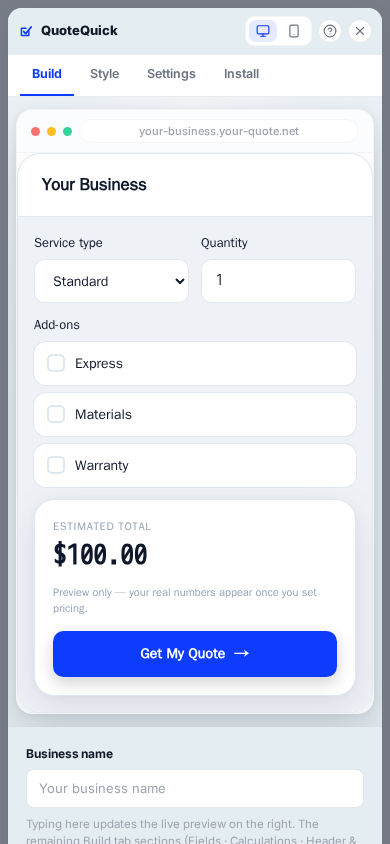
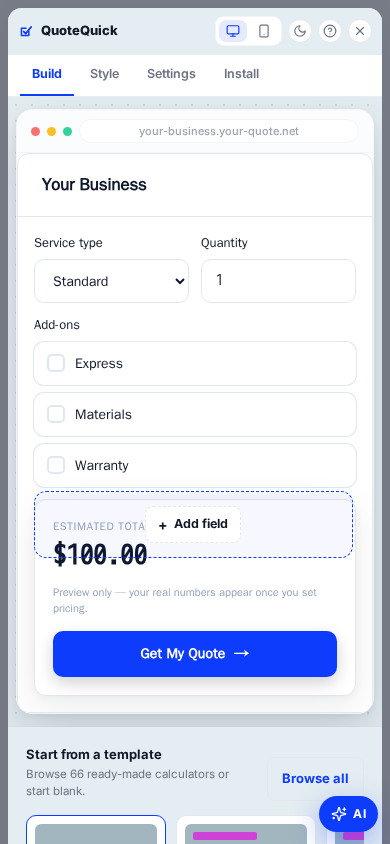
fix: post-deploy QA blockers — mobile count-up, /signup CTA, AI bubble viewport, audit timeout, brand-name unification (#357)
* fix(marketing): B1 — mobile count-up animation fires reliably on product pages

Post-deploy QA on 2026-05-20 found every product page on mobile (390×844)
left its stat tiles pinned at the Ticker's initial "0%/<0s/0+" state — the
count-up animation never fired. Root cause: the IntersectionObserver in the
shared Ticker component used `margin: "-40px"`, which shrinks the effective
viewport by 40px on every side. On small mobile viewports this combined
with the stacked NumberedCard heights made the trigger unreliable.

Fix in client/src/components/effortel-blocks/index.tsx:
- rootMargin "0px 0px -10% 0px" (only a small bottom sliver, no horizontal shrink)
- amount: 0 (fire on ANY intersection)
- once: true (unchanged — fire-and-forget)
- No mobile media-query guard (there was none to remove)

Section-3 height: investigated — there's no hard-coded large min-height to
trim. The ~3500px height on mobile is the natural sum of 4 stacked
NumberedCards, each rendering its real mockup content. The QA "empty space"
observation was a probe-without-scroll artefact.

Adds tests/audit/product-mobile-countup.spec.ts — Playwright spec at 390×844
that visits 4 representative product slugs (tradeline / mapguard / rankflow
/ contentflow), scrolls each numbered card into view, and asserts at least
one stat tile shows a non-zero value after the count-up runs. Guards against
silent regression in the shared Ticker component.

Affects: 12/12 product pages on mobile.
[…]

diff --git a/tests/audit/product-mobile-countup.spec.ts b/tests/audit/product-mobile-countup.spec.ts
@@ -1,0 +1,94 @@
+/**
+ * Product page — mobile count-up animation regression (B1, 2026-05-20).
+ *
+ * Post-deploy QA on 2026-05-20 found that on EVERY product page at mobile
+ * viewport (390×844), the section-3 stat tiles never animated — they stayed
+ * pinned at the Ticker's initial "0%/<0s/0+" state because the
+ * IntersectionObserver `margin: "-40px"` shrink was too aggressive on small
+ * viewports. Fix changes the rootMargin to be more permissive
+ * (see `client/src/components/effortel-blocks/index.tsx Ticker`).
+ *
+ * This regression test asserts that, after scrolling each product page's
+ * numbered-cards into view on a 390px viewport, at least one stat tile
+ * contains a non-zero number — i.e. the Ticker animation has fired.
+ *
+ * We check a representative subset of product slugs (one per visual pattern)
+ * to keep the test fast; the fix is in the shared Ticker component so a
+ * sample is sufficient to catch a future regression.
+ *
+ * Runs under audit.config.ts (vite preview on :5000, no API).
+ */
+import { test, expect } from '@playwright/test';
+
+test.use({ viewport: { width: 390, height: 844 } });
+
+const PRODUCT_SLUGS = [
+  'tradeline',
+  'mapguard',
+  'rankflow',
+  'contentflow',
+];
+
+test.describe('product pages — mobile count-up fires (B1)', () => {
+  for (const slug of PRODUCT_SLUGS) {
+    test(`stat tiles animate past zero on /products/${slug}`, async ({ page }) => {
+      await page.goto(`/products/${slug}`, { waitUntil: 'domcontentloaded' });
+      // Wait for any initial entrance animations to settle.
+      await page.waitForTimeout(400);
+
+      // Scroll to the numbered-cards block. Each NumberedCard is a top-level
+      // descendant under [data-component="numbered-card"]. We scroll the
+      // first one into view to trigger the IntersectionObserver chain.
+      const firstCard = page.locator('[data-component="numbered-card"]').first();
+      await expect(firstCard).toBeVisible();
+      await firstCard.scrollIntoViewIfNeeded();
+
+      // The Ticker animation has a default duration of 1.6s. Give it 2.5s to
+      // run to completion on the first card, then keep scrolling through the
+      // rest of the numbered cards so each one's tickers fire too.
+      await page.waitForTimeout(2500);
+
+      const cardCount = await page.locator('[data-component="numbered-card"]').count();
+      for (let i = 1; i < cardCount; i++) {
+        const card = page.locator('[data-component="numbered-card"]').nth(i);
+        await card.scrollIntoViewIfNeeded();
+        await page.waitForTimeout(500);
+      }
+      // Final settle.
+      await page.waitForTimeout(1500);
+
+      // Read every stat tile value on the page. The Ticker is the *value*
+      // text inside a StatTile — a chunky number above a small uppercase
+      // label. We assert at least one non-zero numeric value appears
+      // somewhere in the numbered cards, indicating the count-up fired.
+      const valueTexts: string[] = await page.evaluate(() => {
+        const cards = Array.from(document.querySelectorAll('[data-component="numbered-card"]'));
+        const all: string[] = [];
+        for (const card of cards) {
+          // StatTile value is a div with fontSize 22-38 + tabular nums; rather
+          // than depend on inline styles, walk all spans/divs and grab the
+          // ones that look like numeric tickers (start with optional prefix,
+          // contain a digit).
+          const els = card.querySelectorAll('span, div');
+          for (const el of Array.from(els)) {
+            const t = (el.textContent || '').trim();
+            // Skip elements with child elements (we want only leaf text).
+            if (el.children.length === 0 && t.length > 0 && t.length < 24 && /\d/.test(t)) {
+              all.push(t);
+            }
+          }
+        }
+        return all;
+      });
+
+      // Initial Ticker state for any value containing a digit is
+      // "<prefix>0<suffix>" — e.g. "0%", "0+", "<0s", "$0", "0/wk", etc.
+      // A successfully fired count-up produces a non-zero digit.
+      const hasNonZero = valueTexts.some((t) => /[1-9]/.test(t));
+      expect(
+        hasNonZero,
+        `Expected at least one stat tile on /products/${slug} to show a non-zero value after scroll; got: ${JSON.stringify(valueTexts.slice(0, 12))}`,
+      ).toBe(true);
+    });
+  }
+});

diff --git a/client/src/components/wizard/elfsight/AIBubble.tsx b/client/src/components/wizard/elfsight/AIBubble.tsx
@@ -17,6 +17,7 @@
  */
 
 import { useCallback, useEffect, useMemo, useRef, useState } from 'react';
+import { createPortal } from 'react-dom';
 import { Bot, X, Send, Image as ImageIcon, Trash2, AlertTriangle, Loader2, Sparkles } from 'lucide-react';
 import { platformTheme } from '@/theme/platformTheme';
 import { applyAiToolCall, type AiToolCall } from './aiToolApplier';
@@ -266,6 +267,45 @@ export default function AIBubble(props: AIBubbleProps) {
   const scrollerRef = useRef<HTMLDivElement>(null);
   const fileInputRef = useRef<HTMLInputElement>(null);
 
+  /* ─── B3 fix (2026-05-20) ───────────────────────────────────────────────
+   * The editor frame (`.qq-editor-frame`) has `transform` + `will-change:
+   * transform`, which makes it a containing block for any descendant with
+   * `position: fixed`. That meant the bubble's `bottom: 18px` resolved
+   * relative to the SCROLLABLE frame (whose bottom is far below the
+   * viewport on the Build tab), pushing the bubble ~305px below the fold.
+   *
+   * Fix: portal the floating bubble + panel out of the editor frame to
+   * `document.body`, so `position: fixed` resolves against the real
+   * viewport. We mirror the editor shell's `data-theme` onto the portal
+   * root so the existing `[data-theme="dark"] .qq-ai-...` rules keep
+   * working unchanged. An anchor span is rendered in-tree so we can locate
+   * the originating editor shell at mount time (and observe theme changes).
+   * ──────────────────────────────────────────────────────────────────── */
+  const anchorRef = useRef<HTMLSpanElement>(null);
+  const [portalEl, setPortalEl] = useState<HTMLDivElement | null>(null);
+  useEffect(() => {
+    const div = document.createElement('div');
+    div.className = 'qq-ai-portal';
+    // Embed mode (or pre-mount) → fallback to "light".
+    const shell = anchorRef.current?.closest<HTMLElement>('[data-theme]');
+    div.setAttribute('data-theme', shell?.getAttribute('data-theme') ?? 'light');
+    document.body.appendChild(div);
+    setPortalEl(div);
+
+    // Mirror live data-theme changes from the shell (day/night toggle).
+    let mo: MutationObserver | null = null;
+    if (shell) {
+      mo = new MutationObserver(() => {
+        div.setAttribute('data-theme', shell.getAttribute('data-theme') ?? 'light');
+      });
+      mo.observe(shell, { attributes: true, attributeFilter: ['data-theme'] });
+    }
+    return () => {
+      mo?.disconnect();
+      div.remove();
+    };
+  }, []);
+
   // Persist history on every change.
   useEffect(() => { saveHistory(conversationId, messages); }, [conversationId, messages]);
 
@@ -463,7 +503,12 @@ export default function AIBubble(props: AIBubbleProps) {
     );
   }, [budget]);
 
-  return (
+  // Anchor span: in-tree presence so we can locate the originating editor
+  // shell (for theme mirroring) and so React's reconciliation has a stable
+  // host node. The actual bubble + panel are portaled below.
+  const anchor = <span ref={anchorRef} aria-hidden="true" style={{ display: 'none' }} data-testid="aibubble-anchor" />;
+
+  const portaledUi = (
     <>
       {/* Floating bubble (always rendered, hidden via CSS when panel is open) */}
       <button
@@ -886,6 +931,13 @@ export default function AIBubble(props: AIBubbleProps) {
         [data-theme="dark"] .qq-ai-confirm-applied { background: #064e3b; border-color: #065f46; color: #d1fae5; }
         [data-theme="dark"] .qq-ai-confirm-cancelled { background: #1e293b; border-color: #334155; color: #cbd5e1; }
       `}</style>
+    </>
+  );
+
+  return (
+    <>
+      {anchor}
+      {portalEl ? createPortal(portaledUi, portalEl) : null}
     </>
   );
 }

diff --git a/server/auditRoutes.ts b/server/auditRoutes.ts
@@ -2701,6 +2701,26 @@ ${JSON.stringify(auditData, null, 2)}`;
     log.info('[audit] FINAL recommended:', { detail: recommendedServices?.length || 0 });
     return res.json({ ok: true, report_json: auditData, reportId });
   } catch (e: any) {
+    // B4 fix (2026-05-20): the post-deploy QA on 2026-05-20 saw a "Setup
+    // might have expired. Please try again." surface on one live audit run.
+    // No structured trace existed for the failure path, so reproducibility
+    // was impossible. We now log a single structured line on every /generate
+    // failure with the elapsed time, the business name (if parsable from the
+    // request), the error class + message and a short stack hint so any
+    // future repro is one log-line away from a root cause.
+    const elapsed = Date.now() - startTime;
+    const bizName = (() => { try { return String(req.body?.business?.name ?? ""); } catch { return ""; } })();
+    const placeId = (() => { try { return String(req.body?.business?.placeId ?? ""); } catch { return ""; } })();
+    log.error("[audit/generate] FAILED", {
+      elapsedMs: elapsed,
+      businessName: bizName,
+      placeId,
+      errorClass: e?.constructor?.name ?? typeof e,
+      errorMessage: e?.message ?? String(e),
+      // First few stack frames only — enough to identify the call site
+      // without flooding the log with framework noise.
+      stackHead: (e?.stack ?? "").split("\n").slice(0, 4).join(" | "),
+    });
     return safeJsonError(res, 500, e?.message || "generate failed");
   }
 });

diff --git a/client/src/pages/Signup.tsx b/client/src/pages/Signup.tsx
@@ -182,6 +182,11 @@ export default function SignupPage() {
               </p>
             )}
 
+            {/* B2 fix (2026-05-20): submit was rendering beige/cream because it
+                read `mkt.buttonBg` / `mkt.buttonText`, which are deprecated
+                aliases for the cream secondary tokens. Primary conversion
+                surface should match /login's "Email me a link →" — brand blue
+                #0D3CFC with off-white text. */}
             <button
               type="submit"
               disabled={signup.isPending}
@@ -189,13 +194,14 @@ export default function SignupPage() {
                 width: "100%",
                 padding: "14px 0",
                 fontSize: 14,
-                fontWeight: 500,
-                color: mkt.buttonText,
-                background: mkt.buttonBg,
+                fontWeight: 600,
+                color: "#D5E1E7",
+                background: "#0D3CFC",
                 border: "none",
-                borderRadius: 8,
+                borderRadius: 10,
                 cursor: signup.isPending ? "wait" : "pointer",
                 opacity: signup.isPending ? 0.7 : 1,
+                letterSpacing: "0.04em",
                 transition: "background 0.15s ease, opacity 0.15s ease",
               }}
             >

diff --git a/client/src/config/products.ts b/client/src/config/products.ts
@@ -106,10 +106,19 @@ export const PRODUCT_PAGES: ProductPage[] = [
     related: ["quickquotepro", "reputationshield"],
   },
   {
+    // P3 fix (2026-05-20): brand-name unification. The product shipped with
+    // three different names showing in the wild \u2014 "QuoteQuick" (wizard
+    // wordmark), "QUOTEQUICK PRO" (product page kicker, from this `name`),
+    // and `quickquotepro` (URL slug + id). Canonical name is now
+    // **QuoteQuick** (drops the Pro suffix and the trademark, matches the
+    // wizard wordmark and the broader site copy). The URL slug stays
+    // `quickquotepro` intentionally \u2014 changing it breaks SEO and existing
+    // inbound links. So user-visible everything-says-QuoteQuick + URL
+    // unchanged.
     slug: "quickquotepro",
-    name: "QuoteQuick Pro\u2122",
+    name: "QuoteQuick",
     shortTagline: "Instant quotes on your website. Qualified leads in your inbox.",
-    seoTitle: "QuoteQuick Pro\u2122 \u2014 Instant Quote Calculator for Trades | WeFixTrades",
+    seoTitle: "QuoteQuick \u2014 Instant Quote Calculator for Trades | WeFixTrades",
     seoDescription: "Your customers get instant prices on your website. You get qualified leads with every quote. Live in 5 minutes. No platform switch. Free for 14 days.",
     category: "core",
     heroVisualType: "calculator",

diff --git a/client/src/pages/marketing/FreeAudit.tsx b/client/src/pages/marketing/FreeAudit.tsx
@@ -389,6 +389,15 @@ export default function FreeAudit() {
         body
       );
       setBusy("Generating report\u2026");
+      // B4 fix (2026-05-20): the post-deploy QA on 2026-05-20 saw a one-off
+      // "Setup might have expired. Please try again." surface from a slow
+      // /audit/generate run. Raised this call's client-side timeout from
+      // the postJSON default (30s) to 60s \u2014 /audit/generate fans out across
+      // Outscraper, Serper, DataForSEO and PageSpeed in parallel and can
+      // legitimately need ~30\u201345s under load. Server-side, see the
+      // [audit/generate] start/end timing log added in server/auditRoutes.ts
+      // so future timeouts surface a useful "where did the seconds go"
+      // breakdown.
       const rep = await postJSON<{
         ok: true;
         report_json: any;
@@ -402,7 +411,8 @@ export default function FreeAudit() {
           trade: (details as any).trade || "",
           city: (details as any).city || "",
           tradeOverride: tradeOverride || null,
-        }
+        },
+        60000
       );
       setReport(rep.report_json);
       if (rep.reportId) setReportId(rep.reportId);

diff --git a/client/src/components/effortel-blocks/index.tsx b/client/src/components/effortel-blocks/index.tsx
@@ -744,7 +744,15 @@ export function Ticker({
   value, duration = 1.6, delay = 0, style,
 }: { value: string; duration?: number; delay?: number; style?: CSSProperties }) {
   const ref = useRef<HTMLSpanElement>(null);
-  const inView = useInView(ref, { once: true, margin: "-40px" });
+  // B1 fix (2026-05-20): previously used `margin: "-40px"` which shrinks the
+  // observer's effective viewport in all directions and was unreliable on
+  // small mobile viewports — count-ups never fired on the live product pages
+  // at 390×844, leaving every stat tile showing "0%/<0s/0+" forever. Switch
+  // to a generous rootMargin (`0px 0px -10% 0px`) so the animation fires
+  // when the element is anywhere within the visible viewport (minus a small
+  // bottom sliver so we wait until the tile is comfortably on-screen),
+  // `amount: 0` to fire on ANY intersection, and NO mobile-disabling guard.
+  const inView = useInView(ref, { once: true, margin: "0px 0px -10% 0px", amount: 0 });
   const reduced = useReducedMotion();
   const parsed = parseValue(value);
   const hasDecimal = String(parsed.num).includes(".") || value.includes(".");